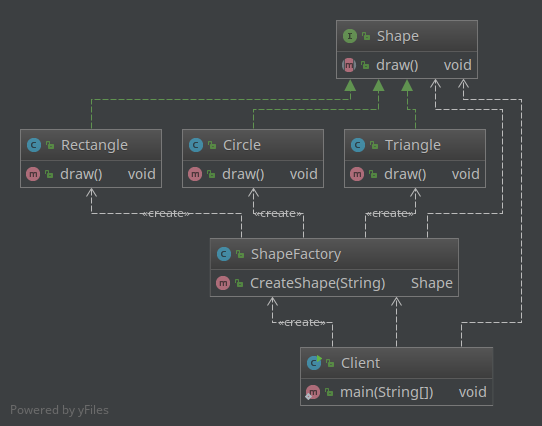
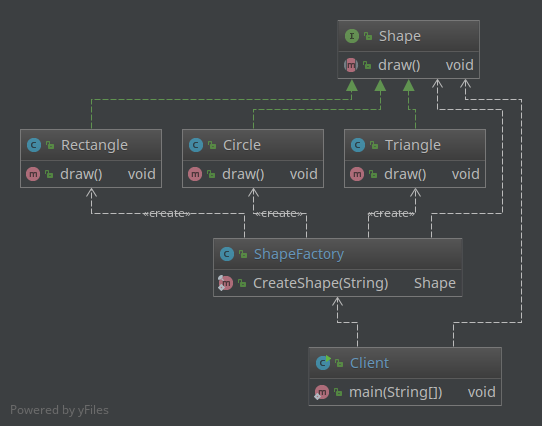
Add Simple Factory Patterns.

diff --git a/simple-factory/src/main/java/com/getset/designpatterns/simplefactory1/Client.java b/simple-factory/src/main/java/com/getset/designpatterns/simplefactory1/Client.java
@@ -2,9 +2,7 @@ package com.getset.designpatterns.simplefactory1;
 
 public class Client {
     public static void main(String[] args) {
-        ShapeFactory factory = new ShapeFactory();
-
-        Shape c = factory.CreateShape("CIRCLE");
+        Shape c = ShapeFactory.CreateShape("CIRCLE");
         c.draw();
     }
 }

diff --git a/simple-factory/src/main/java/com/getset/designpatterns/simplefactory1/ShapeFactory.java b/simple-factory/src/main/java/com/getset/designpatterns/simplefactory1/ShapeFactory.java
@@ -1,7 +1,7 @@
 package com.getset.designpatterns.simplefactory1;
 
 public class ShapeFactory {
-    public Shape CreateShape(String shape) {
+    public final static Shape CreateShape(String shape) {
         if (null == shape) {
             return null;
         }

diff --git a/simple-factory/README.md b/simple-factory/README.md
@@ -1,14 +1,11 @@
 工厂模式（Factory Pattern）是 Java 中最常用的设计模式之一。这种类型的设计模式属于创建型模式，它提供了一种创建对象很好的方式。具体来说，有简单工厂模式（simple factory）、工厂方法模式（factory method)和抽象工厂模式（abstract factory）等模式。
-本篇先从简单工厂模式谈起。  
+本篇先从简单工厂模式谈起。
 
 # 例子
-
 请设想一个简单的需求，你在做一个画图软件，可以画矩形、三角形和圆形等，每一种图形都用一个类来管理：  
-
   * `Rectangle`
   * `Circle`
   * `Triangle`
-
 每个类都有各自的`draw()`方法，当需要画某种图形的时候就可以：  
 
 Client.java
@@ -64,13 +61,13 @@ Circle.java
     }
 
 
-然后屏蔽掉具体类型的创建语句，那么就可以一定程度上做到“开闭原则”了。这时就需要工厂类登场了：
+然后屏蔽掉具体类型的创建语句，那么就可以一定程度上做到“开闭原则”了。这时就需要工厂类登场了，它有一个用来返回具体产品对象的方法，注意这个方法是静态（static）的，也因此简单工厂模式有时候也被叫做“静态工厂模式”。
 
 ShapeFactory.java
 
     public class ShapeFactory {
        //使用 getShape 方法获取形状类型的对象
-       public Shape getShape(String shapeType){
+       public static Shape getShape(String shapeType){
           if(shapeType == null){
              return null;
           }        
@@ -90,30 +87,30 @@ ShapeFactory.java
 
 Client.java
 
-    ShapeFactory shapeFactory = new ShapeFactory();
-    
     //画矩形时:
-    Shape r = shapeFactory.getShape("RECTANGLE");
+    Shape r = ShapeFactory.getShape("RECTANGLE");
     r.draw();
     //画圆形时:
-    Shape c = shapeFactory.getShape("CIRCLE");
+    Shape c = ShapeFactory.getShape("CIRCLE");
     c.draw();
     //画三角形时:
-    Shape t = shapeFactory.getShape("TRIANGLE");
+    Shape t = ShapeFactory.getShape("TRIANGLE");
     t.draw();
 
 此时如果增加一个Star的图形类型，也可以从容应对了，从使用者`Client`的角度，无需关心对象是如何创建的。
+各个类之间的关系如下：
 
-以上例子的类关系图如下：
+![](images/simplefactory1.png)
 
-![simple-factory1](images/simplefactory1.png)
+此外还有一个类似的例子，可自行查看源码：
 
-另外还有一个例子，类关系图如下，代码请自行研究：
+![](images/simplefactory2.png)
 
-![simple-factory1](images/simplefactory2.png)
+看到这里可能你会觉得，前后两个版本的`Client`并没有太大的不同，反而采用了工厂模式后更加复杂了。其实作为一种创建类模式，在任何需要生成复杂对象的地方，都可以使用工厂方法模式。有一点需要注意的地方就是**复杂对象适合使用工厂模式，而简单对象，特别是只需要通过 new 就可以完成创建的对象，无需使用工厂模式。如果使用工厂模式，就需要引入一个工厂类，会增加系统的复杂度。**
 
-
-看到这里可能你会觉得，前后两个版本的`Client`并没有太大的不同，反而采用了工厂模式后更加复杂了。这是例子本身复杂度不够的原因，我们来看一个Java中经常用到的关于日期类型格式化的例子：
+此外，在具体使用时，也会有不同的调整，比如：
+1. `ShapeFactory`的`getShape(String)`方法也可以改为非`static`的，这样就需要首先构造一个实际的工厂对象来创建产品了；
+2. 工厂类、抽象产品和具体产品这三个角色有可能部分或全部合并，我们来看一个Java中经常用到的关于日期类型格式化的例子：
 
     import java.util.*;  
     import java.text.*;  
@@ -137,34 +134,16 @@ Client.java
         }  
     }  
 
-当我们在进行日期类型转化的时候，传递的是日期或String对象，返回的是String或日期对象，我们并不关心转化的过程。这其中，DateFormat是个抽象类，在这个“简单工厂模式”例子中，它是工厂类角色和抽象产品角色的合体，完成具体产品角色的创建。
+而我们知道DateFormat是个抽象类，`public final static DateFormat getDateInstance(...)`的静态方法，也使得它自身既是一个抽象产品角色，又是一个工厂类角色，完成具体产品角色的创建（比如`SimpleDateFormat`）。
 
-从以上例子也可以看出，作为一种创建类模式，在任何需要生成复杂对象的地方，都可以使用工厂方法模式。有一点需要注意的地方就是**复杂对象适合使用工厂模式，而简单对象，特别是只需要通过 new 就可以完成创建的对象，无需使用工厂模式。如果使用工厂模式，就需要引入一个工厂类，会增加系统的复杂度。**
-
+如果三个角色全部合并，其实就是一个类，增加了一个创建自身对象的方法。
 
 # 总结
 在工厂模式中，我们在创建对象时不会对客户端暴露创建逻辑，并且是通过使用一个共同的接口来指向新创建的对象。
 
-**意图**：定义一个创建对象的接口，让其子类自己决定实例化哪一个工厂类，工厂模式使其创建过程延迟到子类进行。
+**使用场景**： 1、日志记录器：记录可能记录到本地硬盘、系统事件、远程服务器等，用户可以选择记录日志到什么地方。 2、数据库访问，当用户不知道最后系统采用哪一类数据库，以及数据库可能有变化时。 3、设计一个连接服务器的框架，需要三个协议，"POP3"、"IMAP"、"HTTP"，可以把这三个作为产品类，共同实现一个接口。
 
-**主要解决**：接口选择的问题。
+**优点**： 一个调用者想创建一个对象，只要提出要求就可以了；屏蔽产品的具体实现，调用者只关心产品的接口；一定程度上提高了扩展性。
 
-**何时使用**：我们明确地计划不同条件下创建不同实例时。
-
-**如何解决**：让其子类实现工厂接口，返回的也是一个抽象的产品。
-
-**关键代码**：创建过程在其子类执行。
-
-**使用场景**： 1、日志记录器：记录可能记录到本地硬盘、系统事件、远程服务器等，用户可以选择记录日志到什么地方。 2、数据库访问，当用户不知道最后系统采用哪一类数据库，以及数据库可能有变化时。 3、设计一个连接服务器的框架，需要三个协议，"POP3"、"IMAP"、"HTTP"，可以把这三个作为产品类，共同实现一个接口。4、Hibernate 换数据库只需换方言和驱动就可以。
-
-**优点**： 1、一个调用者想创建一个对象，只要知道其名称就可以了。 2、扩展性高，如果想增加一个产品，只要扩展一个工厂类就可以。 3、屏蔽产品的具体实现，调用者只关心产品的接口。
-
-**缺点**：每次增加一个产品时，都需要增加一个具体类和对象实现工厂，使得系统中类的个数成倍增加，在一定程度上增加了系统的复杂度，同时也增加了系统具体类的依赖。这并不是什么好事。
-
-
-可见，简单工厂模式对"开-闭"原则的支持还不够，因为如果有新的产品加入到系统中去，就需要修改工厂类，将必要的逻辑加入到工厂类中。
-
-
-
-
+**缺点**：每次增加一个产品时，都需要增加一个具体类和对象实现工厂，使得系统中类的个数成倍增加，在一定程度上增加了系统的复杂度，同时也增加了系统具体类的依赖。可见，简单工厂模式对"开-闭"原则的支持还不够，因为如果有新的产品加入到系统中去，就需要修改工厂类，将必要的逻辑加入到工厂类中。
 
